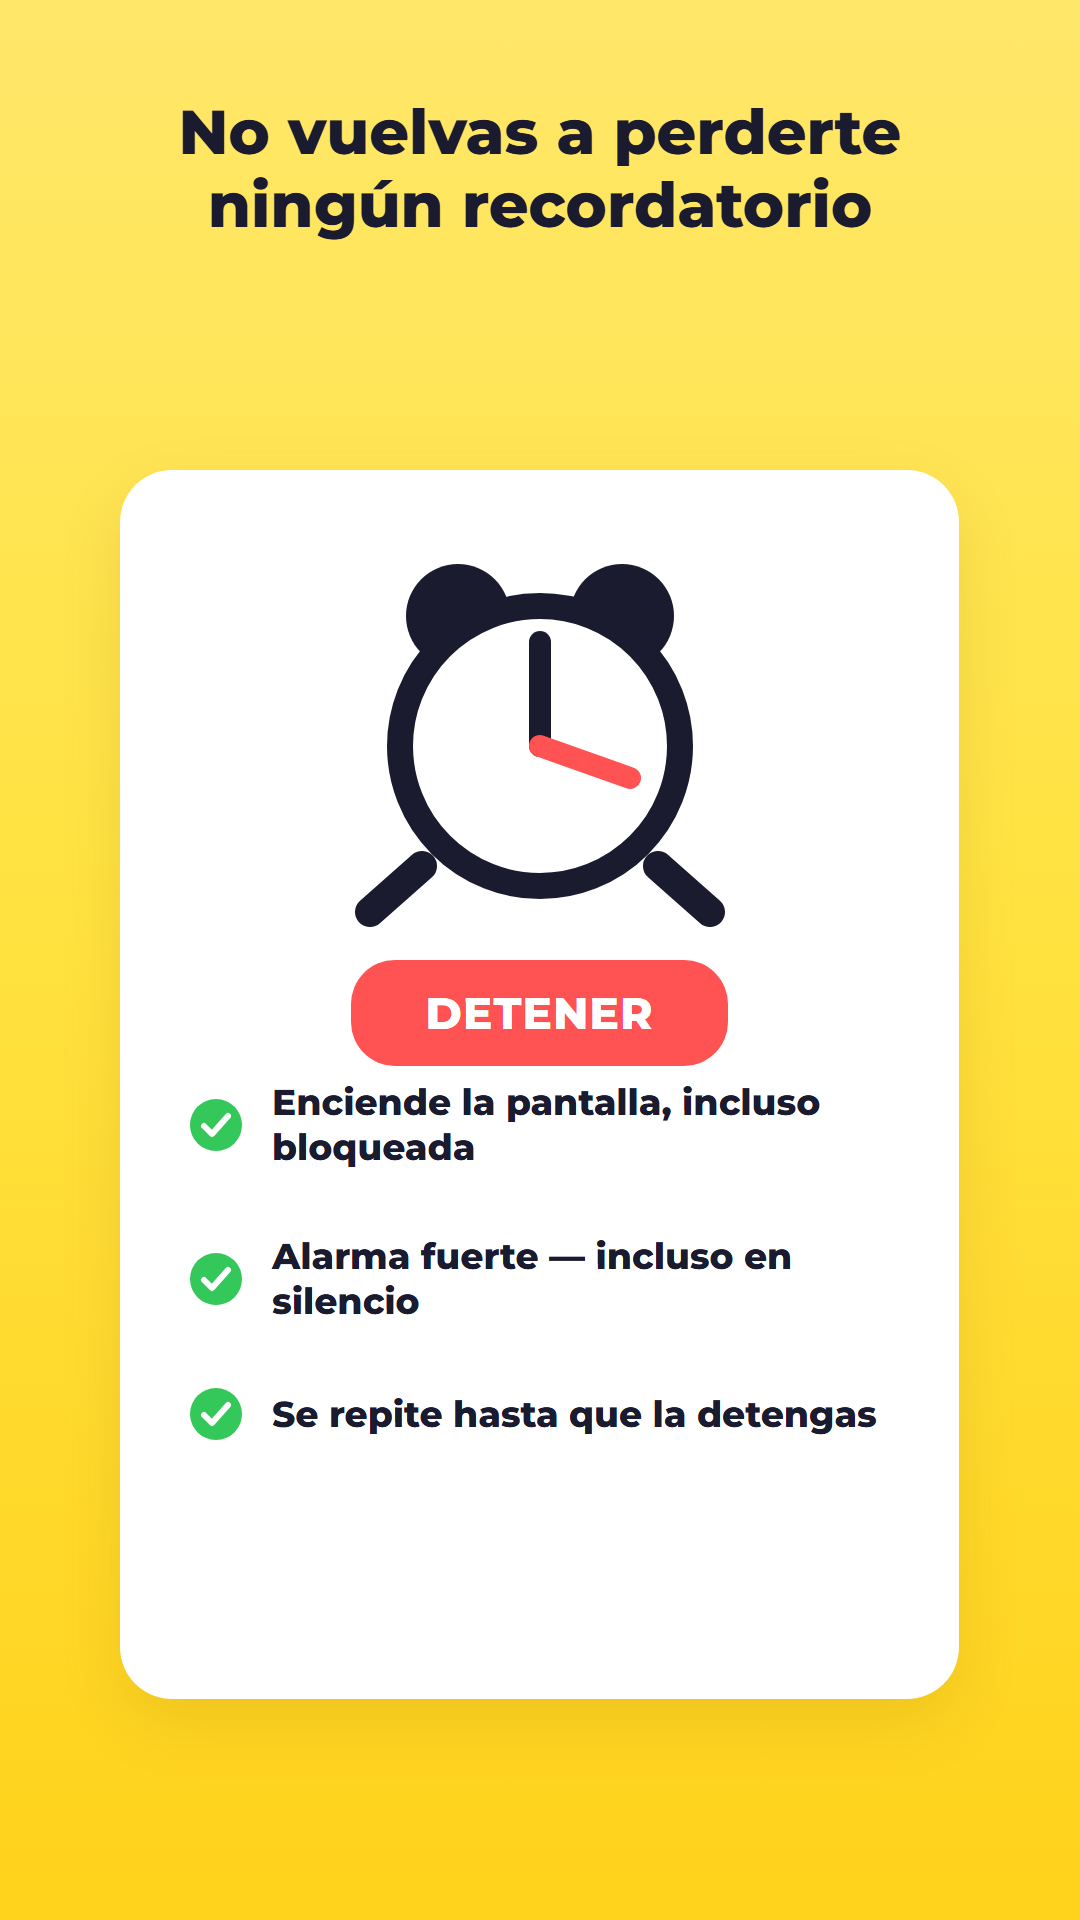
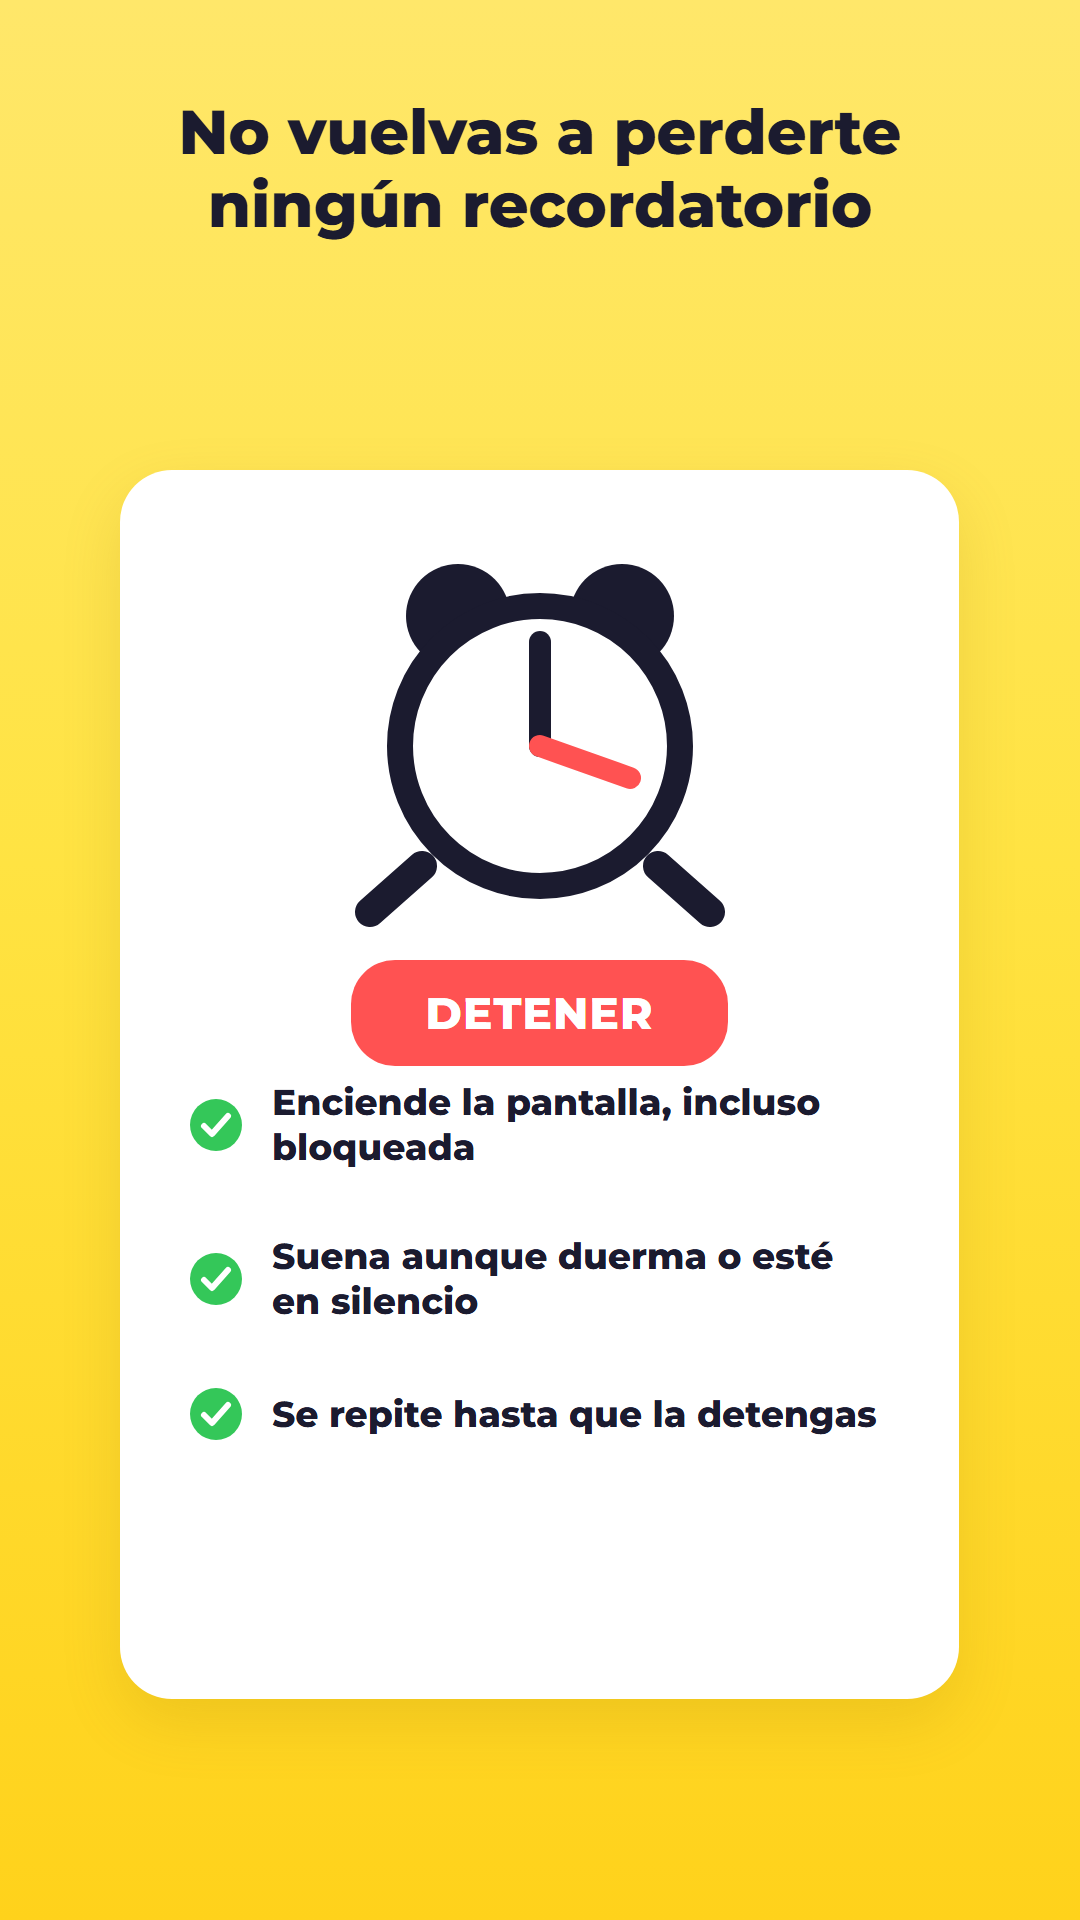
Apply the approved third-screenshot wording in all 11 languages and clear the upload block

Changed region(s): [[0.2444, 0.625, 0.7639, 0.6875]]

diff --git a/תמונות עם השם החדש/📤 להעלאה לחנות/רשימת-מעקב.md b/תמונות עם השם החדש/📤 להעלאה לחנות/רשימת-מעקב.md
@@ -4,13 +4,11 @@
 
 ---
 
-## ⛔ עצירה לפני שמתחילים — קרא את זה
+## ✅ הכל מאושר — אפשר להעלות הכל
 
-**הצילום השלישי בכל אחת עשרה השפות, `3-לא-תפספס`, נושא נוסח שהקוד שינה ביוזמתו והיוצר טרם אישר.** מזהה הפריט: **`חנות-25`**.
+**הנוסח של הצילום השלישי הוכרע 1.9 בערב, אחרי בדיקה חיה על המכשיר.** מזהה `חנות-25` נסגר.
 
-⛔ **אין להעלות את הצילום השלישי עד שהיוצר יכריע.** הפירוט המלא בהערה 3 למטה.
-
-✅ **שאר ארבעים וארבעה הקבצים — הבאנר והצילומים הראשון, השני והרביעי — אינם מושפעים וניתן להעלות אותם.**
+**כל חמישים וחמישה הקבצים מאושרים להעלאה, בלי חריגים.**
 
 ---
 
@@ -18,21 +16,19 @@
 
 **סמן ✅ ורשום את השעה מיד אחרי כל העלאה.** אם נקטעים באמצע, זה מה שיגיד לכם איפה עצרתם.
 
-| # | התיקייה | באנר | צילום 1 | צילום 2 | 🔴 צילום 3 | צילום 4 | הועלה בשעה | הערה |
+| # | התיקייה | באנר | צילום 1 | צילום 2 | צילום 3 | צילום 4 | הועלה בשעה | הערה |
 |---|---|---|---|---|---|---|---|---|
-| 1 | **עברית** | ⬜ | ⬜ | ⬜ | ⛔ | ⬜ | | |
-| 2 | **אנגלית** | ⬜ | ⬜ | ⬜ | ⛔ | ⬜ | | |
-| 3 | **ערבית** | ⬜ | ⬜ | ⬜ | ⛔ | ⬜ | | |
-| 4 | **רוסית** | ⬜ | ⬜ | ⬜ | ⛔ | ⬜ | | |
-| 5 | **הינדית** | ⬜ | ⬜ | ⬜ | ⛔ | ⬜ | | |
-| 6 | **ספרדית — ספרד** | ⬜ | ⬜ | ⬜ | ⛔ | ⬜ | | |
-| 7 | **ספרדית — אמריקה הלטינית** | ⬜ | ⬜ | ⬜ | ⛔ | ⬜ | | זהה לספרד |
-| 8 | **ספרדית — ארצות הברית** | ⬜ | ⬜ | ⬜ | ⛔ | ⬜ | | זהה לספרד |
-| 9 | **סינית מפושטת** | ⬜ | ⬜ | ⬜ | ⛔ | ⬜ | | |
-| 10 | **סינית מסורתית — טאיוואן** | ⬜ | ⬜ | ⬜ | ⛔ | ⬜ | | ⚠ הערה 2 |
-| 11 | **סינית מסורתית — הונג קונג** | ⬜ | ⬜ | ⬜ | ⛔ | ⬜ | | ⚠ הערה 2 · זהה לטאיוואן |
-
-**⛔ בעמודת צילום 3 = חסום עד הכרעה.** כשההכרעה תתקבל, הסימון יוחלף ב-⬜ ואפשר יהיה להעלות.
+| 1 | **עברית** | ⬜ | ⬜ | ⬜ | ⬜ | ⬜ | | |
+| 2 | **אנגלית** | ⬜ | ⬜ | ⬜ | ⬜ | ⬜ | | |
+| 3 | **ערבית** | ⬜ | ⬜ | ⬜ | ⬜ | ⬜ | | |
+| 4 | **רוסית** | ⬜ | ⬜ | ⬜ | ⬜ | ⬜ | | |
+| 5 | **הינדית** | ⬜ | ⬜ | ⬜ | ⬜ | ⬜ | | |
+| 6 | **ספרדית — ספרד** | ⬜ | ⬜ | ⬜ | ⬜ | ⬜ | | |
+| 7 | **ספרדית — אמריקה הלטינית** | ⬜ | ⬜ | ⬜ | ⬜ | ⬜ | | זהה לספרד |
+| 8 | **ספרדית — ארצות הברית** | ⬜ | ⬜ | ⬜ | ⬜ | ⬜ | | זהה לספרד |
+| 9 | **סינית מפושטת** | ⬜ | ⬜ | ⬜ | ⬜ | ⬜ | | |
+| 10 | **סינית מסורתית — טאיוואן** | ⬜ | ⬜ | ⬜ | ⬜ | ⬜ | | ⚠ הערה 2 |
+| 11 | **סינית מסורתית — הונג קונג** | ⬜ | ⬜ | ⬜ | ⬜ | ⬜ | | ⚠ הערה 2 · זהה לטאיוואן |
 
 **התיקיות ממוספרות לפי סדר העבודה המומלץ** — מתחילים בעברית ובאנגלית, שהן החשובות ביותר, וממשיכים משם.
 
@@ -74,19 +70,15 @@
 
 **היוצר אישר להעלות בכל זאת.** התקלה תיסגר כשהאפליקציה תתורגם, ואז הצילומים יהיו מדויקים.
 
-### הערה 3 — 🔴 נוסח אחד שונה ביוזמת הקוד וטרם אושר
+### הערה 3 — ✅ נסגר: הנוסח הוכרע אחרי בדיקה חיה
 
-בצילום השלישי, `3-לא-תפספס`, המקור האנגלי אמר:
+בצילום השלישי, `3-לא-תפספס`, המקור האנגלי אמר `Loud alarm — beats Doze & DND`.
 
-> `Loud alarm — beats Doze & DND`
+**הנוסח הסופי שהוכרע:** `Rings even if the phone sleeps or is silent` · בעברית **`מצלצל גם כשהטלפון ישן או מושתק`**.
 
-ובכל אחת עשרה השפות נכתב במקומו:
+**הרקע:** ב-1.9 נערכו שתי בדיקות חיות על המכשיר. **מצב "נא לא להפריע" אומת פעמיים** — התזכורת ירתה בשנייה המדויקת, הבלון קפץ, הצפצוף התנגן וההקראה נשמעה. **אבל `Doze` עצמו לא נבדק**, כי המכשיר היה מחובר לכבל ה-USB ואנדרואיד אינו נכנס ל-`Doze` בזמן טעינה (`mCharging=true`, `mState=ACTIVE`).
 
-> `Loud alarm — even in silent mode` · ובעברית `צלצול חזק — גם במצב שקט`
-
-**שתי הסיבות:** `Doze` ו-`DND` הם ז'רגון של מפתחי אנדרואיד ומשתמש רגיל אינו יודע מה זה, וזה סותר את עקרון המוצר *"מכונית מוכנה לנסיעה, לא ערכת הרכבה"*. ובנוסף, **ל-`Doze` אין תרגום ברוסית, בתאית או בהינדית** ⇒ הוא היה נשאר באנגלית באמצע משפט מתורגם.
-
-**ההחזרה לנוסח המקורי אפשרית בכל רגע.**
+⇒ **הנוסח שנבחר טוען רק את מה שאומת, ובמילים שכל אחד מבין.** מזהה `חנות-25` נסגר.
 
 ---
 
